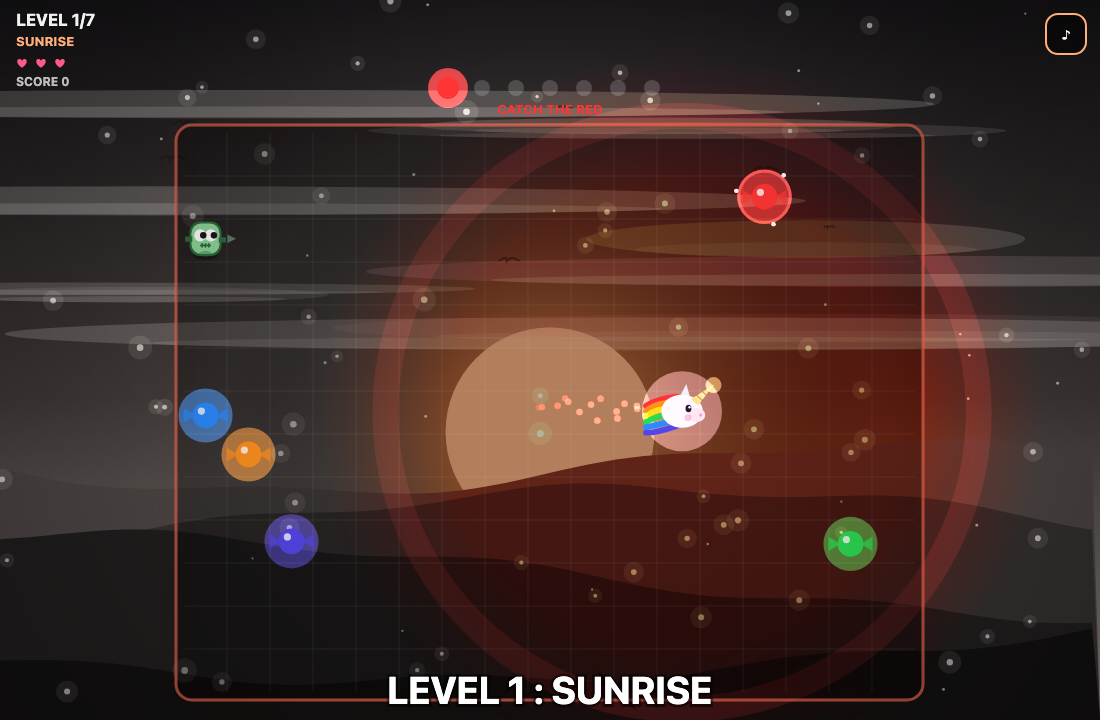
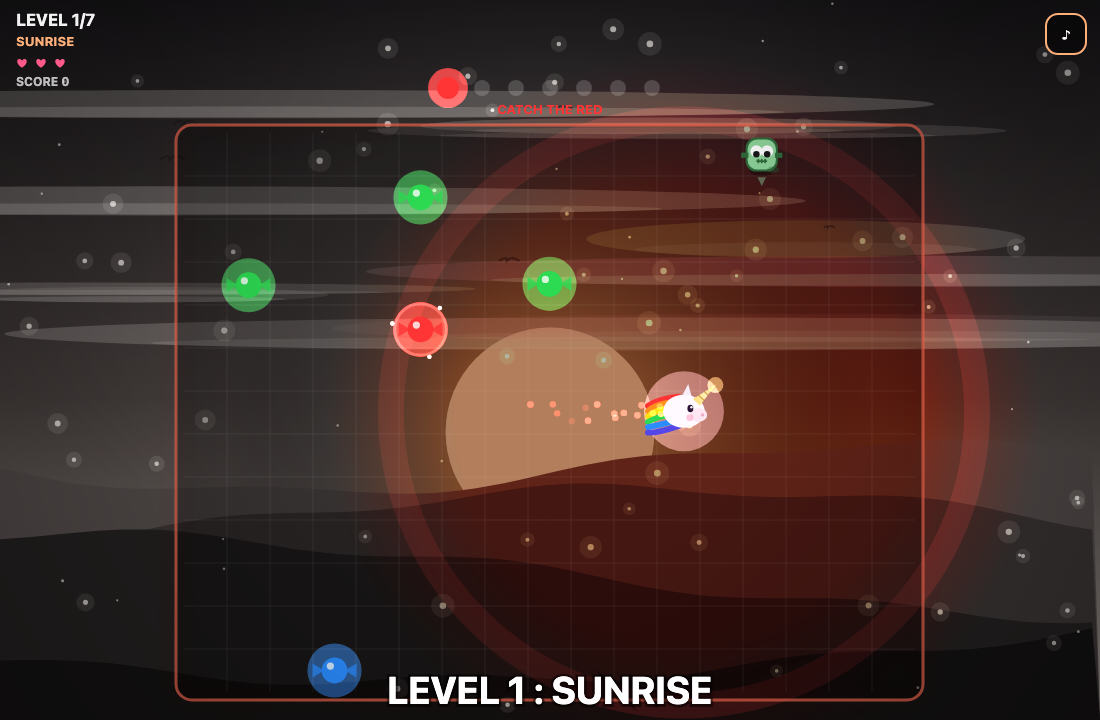
Bandeau de trophee lisible, et build --best
Le bandeau etait du texte pose a nu sur le decor. Il a maintenant un fond
sombre arrondi, une bordure doree, et 26 px entre le surtitre et le nom du
trophee. Le surtitre est espace a la main ("T R O P H Y") faute de
letter-spacing en canvas, ce qui coute six caracteres. La largeur suit
measureText, plafonnee a la largeur de l'ecran moins 24 px.

Remonte a 8 px et compacte a 58 px de haut : il frolait la rangee de pastilles
arc-en-ciel et mordait sur "CATCH THE RED". Verifie a l'oeil en 1100 et en
390 px, pas seulement au jugé.

Au passage, une chose a savoir pour la suite : roadroller -O2 tire ses
parametres au hasard, donc deux builds de la MEME source ne pesent pas pareil.
Mesure : 13 249 puis 13 267 octets, 18 d'ecart, ce qui n'est pas rien quand il
reste moins de 60 octets. D'ou --best=N, qui relance roadroller N fois et garde
le plus petit tirage. Sur 6 essais l'ecart etait de 33 octets en sortie
roadroller ; c'est le meilleur qui est zippe.

Le zip a soumettre doit donc etre produit avec --best.

ZIP 13 251 / 13 312 o, 61 octets de marge.

diff --git a/scripts/build.js b/scripts/build.js
@@ -15,6 +15,12 @@
  * Usage :  npm run build
  *          npm run build -- --watch     (reconstruit a chaque sauvegarde)
  *          npm run build -- --no-rr     (saute roadroller, plus rapide pour tester)
+ *          npm run build -- --best=6    (relance roadroller 6 fois, garde le plus petit)
+ *
+ * A savoir : roadroller -O2 tire ses parametres au hasard (~300 essais), donc deux
+ * builds de la MEME source ne donnent pas la meme taille -- 18 octets d'ecart
+ * mesures. Quand la marge est mince, --best transforme cette loterie en avantage
+ * en gardant le meilleur tirage. A utiliser pour le zip qu'on soumet.
  */
 
 import { readFileSync, writeFileSync, mkdirSync, rmSync, existsSync, watch, statSync } from 'node:fs';
@@ -31,6 +37,7 @@ const LIMIT = 13312;                       // 13 * 1024, la regle du concours
 const args = process.argv.slice(2);
 const WATCH = args.includes('--watch');
 const NO_RR = args.includes('--no-rr');
+const BEST = Math.max(1, +(args.find(a => a.startsWith('--best='))?.slice(7) || 1));
 
 /* ------------------------------------------------------------------ */
 /* Reglages de compression. C'est ici qu'on tourne les boutons.        */
@@ -98,8 +105,12 @@ function build() {
     const minJs = join(DIST, '_min.js');
     writeFileSync(minJs, out);
     try {
-      out = run('roadroller', [minJs, ...ROADROLLER_ARGS]);
-      sizeRR = Buffer.byteLength(out);
+      for (let i = 0; i < BEST; i++) {
+        const cand = run('roadroller', [minJs, ...ROADROLLER_ARGS]);
+        const n = Buffer.byteLength(cand);
+        if (i === 0 || n < sizeRR) { out = cand; sizeRR = n; }
+        if (BEST > 1) console.log(`  roadroller ${i + 1}/${BEST}  ${n} o${n === sizeRR ? '  <- garde' : ''}`);
+      }
     } catch (e) {
       console.warn('  roadroller a echoue, on garde la version terser.');
     }

diff --git a/src/index.html b/src/index.html
@@ -1123,13 +1123,17 @@ function drawMsg(){
 // decalage vertical et le contour epais qui le garde lisible par-dessus.
 function drawAch(){
   if(achT<=0) return;
-  var a=Math.min(1,achT*1.6), y=Math.min(30+(1-Math.min(1,(3.4-achT)*6))*-14,30);
-  X.save(); X.globalAlpha=a; X.textAlign='center';
-  X.font='bold '+Math.max(15,Math.min(24,W*.03))+'px system-ui,sans-serif';
-  X.lineWidth=7; X.strokeStyle='rgba(0,0,0,.7)';
-  X.strokeText(achMsg,W/2,y+18); X.fillStyle='#ffd76a'; X.fillText(achMsg,W/2,y+18);
-  X.font='bold '+Math.max(9,Math.min(12,W*.015))+'px system-ui,sans-serif';
-  X.lineWidth=5; X.strokeText('TROPHY',W/2,y); X.fillStyle='#fff'; X.fillText('TROPHY',W/2,y);
+  var a=Math.min(1,achT*1.6), fs=Math.max(15,Math.min(23,W*.029));
+  X.save(); X.textAlign='center'; X.globalAlpha=a;
+  X.font='bold '+fs+'px system-ui,sans-serif';
+  var bw=Math.min(W-24,X.measureText(achMsg).width+64),
+      bx=(W-bw)/2, by=8-(1-Math.min(1,(3.4-achT)*6))*26;    // il descend en entrant
+  rrect(X,bx,by,bw,58,12);
+  X.fillStyle='rgba(10,7,18,.86)'; X.fill();
+  X.strokeStyle='#ffd76a'; X.lineWidth=2; X.stroke();
+  X.fillStyle='#ffd76a'; X.fillText(achMsg,W/2,by+44);
+  X.globalAlpha=a*.65; X.fillStyle='#fff';
+  X.font='bold 10px system-ui,sans-serif'; X.fillText('T R O P H Y',W/2,by+18);
   X.restore(); X.textAlign='left';
 }
 
